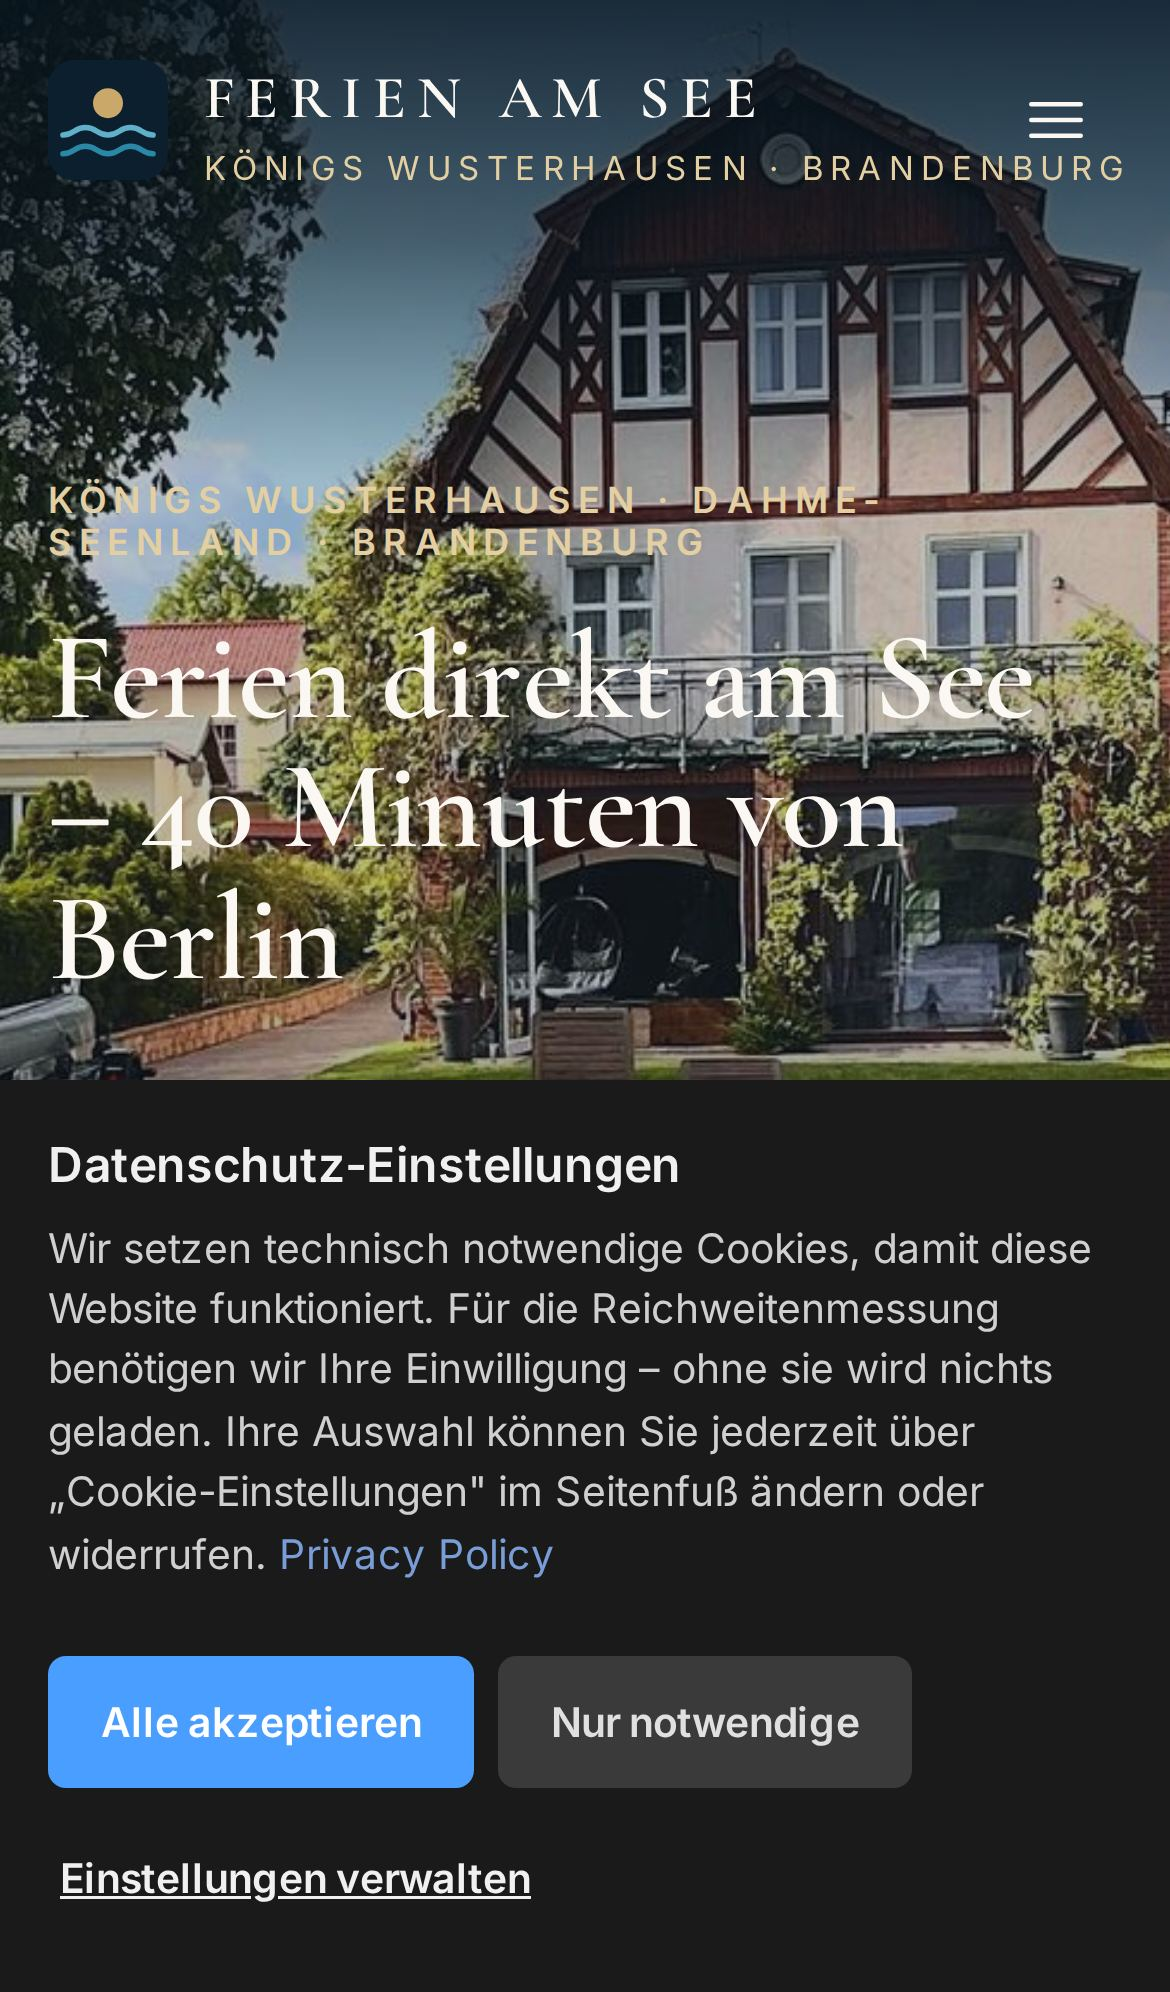
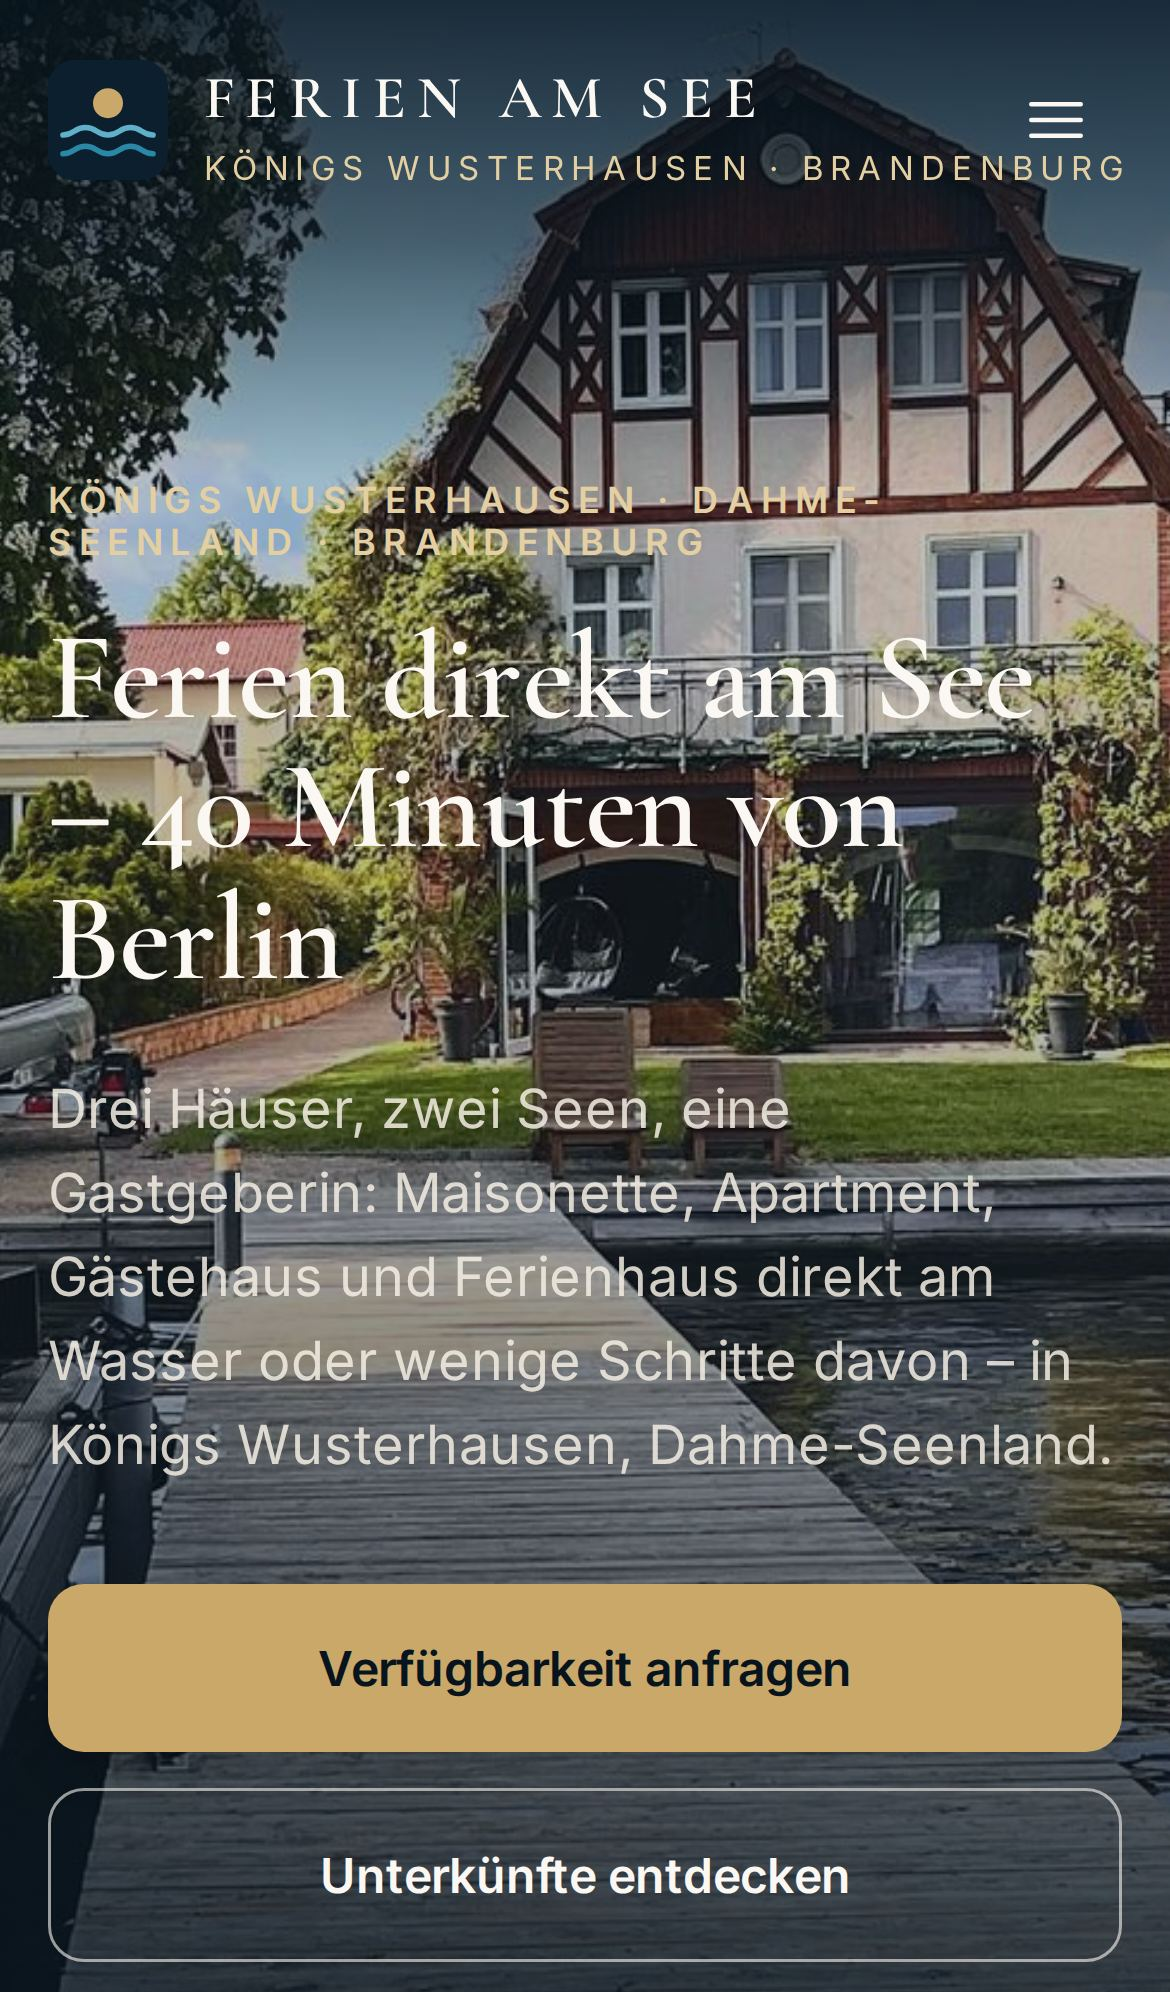
Add platform config archive and final QA screenshots
Site variables, AI instructions, redirects and platform status
exported from the Timbaly site; refreshed mobile screenshots.

Claude-Session: https://claude.ai/code/session_01HD9u7EmbL2y9s3R72ujVzW

diff --git a/ferienwohnung-see-brandenburg/notes/platform-status.md b/ferienwohnung-see-brandenburg/notes/platform-status.md
@@ -1,0 +1,109 @@
+# Platform status
+
+Site id 51, ferienwohnung-see-brandenburg.de. Snapshot of the read-only platform status tools, taken 2026-09-24.
+
+## get_search_visibility_status
+
+```json
+{
+  "domain": "ferienwohnung-see-brandenburg.de",
+  "servedWithNoindex": false,
+  "declaredByUs": {
+    "sitemap": "https://ferienwohnung-see-brandenburg.de/sitemap.xml",
+    "robots": "https://ferienwohnung-see-brandenburg.de/robots.txt",
+    "llmsTxt": "https://ferienwohnung-see-brandenburg.de/llms.txt"
+  },
+  "instantSubmission": {
+    "enabled": true
+  },
+  "google": {
+    "available": true,
+    "connected": false,
+    "propertyAdopted": false
+  },
+  "bing": {
+    "connected": false
+  },
+  "indexing": {
+    "measured": false,
+    "note": "Search Console non è collegata (o non è verificata), quindi NON si sa quali pagine il motore abbia indicizzato. Non dedurne che non lo siano."
+  },
+  "searches": {
+    "measured": false,
+    "note": "Search Console non collegata: non si sa per quali parole il sito compare. Google NON mette la parola cercata nel referrer, quindi non c'è nessun altro modo."
+  },
+  "speed": {
+    "measured": false,
+    "note": "La misurazione della velocità non è attiva su questa installazione (manca la chiave di PageSpeed Insights). Non è una scelta del proprietario del sito."
+  },
+  "nextSteps": [
+    "Search Console non è collegata: è il collegamento che sblocca indicizzazione e parole cercate. Lo fa il PROPRIETARIO con il proprio account Google, da /admin/settings/search-visibility — un agente non può farlo al posto suo."
+  ]
+}
+```
+
+## get_legal_status
+
+```json
+{
+  "completenessPercent": 100,
+  "isComplete": true,
+  "missing": [],
+  "filled": {
+    "ragione_sociale": "Ausblicke Management GmbH",
+    "tipo_soggetto": "company",
+    "indirizzo": "Kuno-Fischer-Str. 14, 14057 Berlin, Deutschland",
+    "email": "kontakt@seehaus-berlin.de",
+    "partita_iva": "DE262426225",
+    "telefono": "+49 163 5088945"
+  },
+  "pagesExist": false,
+  "privacyUrl": "/privacy-policy",
+  "cookieUrl": "/cookie-policy",
+  "note": "Le due pagine legali non esistono su questo sito: si creano confermando la struttura in /admin/build, che le collega anche nel piè di pagina."
+}
+```
+
+## get_site_settings
+
+```json
+{
+  "identity": {
+    "name": "Ferienhaus am See Brandenburg",
+    "domain": "ferienwohnung-see-brandenburg.de",
+    "plan": "pro",
+    "contactEmail": "kontakt@seehaus-berlin.de",
+    "defaultLanguage": "de",
+    "availableLanguages": "[\"de\"]",
+    "logoUrl": "/uploads/site-51/brand/logo-512.png",
+    "faviconUrl": "/uploads/site-51/brand/favicon.svg",
+    "hasCustomCss": false
+  },
+  "cookieConsent": {
+    "enableCookieConsent": true,
+    "cookieEnableAnalytics": true,
+    "cookieEnableMarketing": false,
+    "cookieBannerTitle": "Datenschutz-Einstellungen",
+    "cookieBannerDescription": "Wir setzen technisch notwendige Cookies, damit diese Website funktioniert. Für die Reichweitenmessung benötigen wir Ihre Einwilligung – ohne sie wird nichts geladen. Ihre Auswahl können Sie jederzeit über „Cookie-Einstellungen\" im Seitenfuß ändern oder widerrufen.",
+    "cookiePrivacyPolicyUrl": "/datenschutz",
+    "cookieBannerPosition": "bottom-bar"
+  },
+  "aiDisclosure": {
+    "enableAiDisclosure": false,
+    "aiDisclosureText": "(non configurato)",
+    "aiDisclosurePosition": "(non configurato)",
+    "note": "Trasparenza EU AI Act art. 50. Le pagine di questo sito sono marcate come generate dall'AI."
+  },
+  "searchEngines": {
+    "indexNowEnabled": true,
+    "hasRobotsTxt": true,
+    "hasLlmsTxt": true
+  },
+  "aiConfiguration": {
+    "preferredAiProvider": "openrouter",
+    "defaultAiModel": "(non configurato)",
+    "hasOwnOpenRouterKey": false,
+    "hasOwnGeminiKey": false
+  }
+}
+```

diff --git a/ferienwohnung-see-brandenburg/config/variables.md b/ferienwohnung-see-brandenburg/config/variables.md
@@ -1,0 +1,37 @@
+# Site variables (`get_variables`)
+
+Site id 51, ferienwohnung-see-brandenburg.de. Reference a variable in page HTML with `{{key}}`.
+
+| Name | Value | Description |
+|---|---|---|
+| `booking_u1` | https://www.booking.com/hotel/de/traum-maisonette-direkt-am-see.de.html | Booking.com – Maisonette am Krüpelsee |
+| `booking_u2` | https://www.booking.com/hotel/de/leben-direkt-am-see.de.html | Booking.com – Apartment am Krüpelsee |
+| `booking_u3` | https://www.booking.com/hotel/de/gastehaus-am-grossen-zug-see.de.html | Booking.com – Gästehaus am Großen Zug |
+| `booking_u4` | https://www.booking.com/hotel/de/ferienhaus-am-see-in-der-natur.de.html | Booking.com – Ferienhaus am See in der Natur (Kablow) |
+| `brand_short` | Ferien am See | Kurze Wortmarke (Logo, Nav) |
+| `business_name` | Ferienhaus am See Brandenburg | Anzeigename der Website / Marke |
+| `checkin` | 15:00–18:00 Uhr (Ankunftszeit bitte vorab mitteilen) | Check-in-Zeit (Gästehaus und Ferienhaus Kablow laut Booking bestätigt; Zernsdorf laut Buchungsbestätigung) |
+| `checkout` | bis 11:00 Uhr | Check-out-Zeit (Gästehaus und Ferienhaus Kablow laut Booking bestätigt; Zernsdorf laut Buchungsbestätigung) |
+| `company_address` | Kuno-Fischer-Str. 14, 14057 Berlin | Sitz der Betreibergesellschaft |
+| `company_name` | Ausblicke Management GmbH | Betreibergesellschaft (Impressum, Footer, JSON-LD) |
+| `contact_name` | Marita Briese | Gastgeberin und Ansprechpartnerin |
+| `email` | kontakt@seehaus-berlin.de | E-Mail für Anfragen |
+| `hours` | Mo–Fr 9:00–18:00 Uhr, Sa nach Vereinbarung | Erreichbarkeit |
+| `hrb` | HRB 115701 B | Handelsregisternummer (Amtsgericht Charlottenburg) |
+| `indirizzo` | Kuno-Fischer-Str. 14, 14057 Berlin, Deutschland | Sede legale o residenza, nell'informativa privacy |
+| `min_stay` | auf Anfrage | Mindestaufenthalt (vom Eigentümer zu bestätigen) |
+| `partita_iva` | DE262426225 | Identificativo del titolare nell'informativa privacy |
+| `phone` | +49 163 5088945 | Telefon in Anzeigeform |
+| `phone_link` | +491635088945 | Telefon für tel:-Links (ohne Leerzeichen) |
+| `place_u1` | Zernsdorf, Königs Wusterhausen | Ort der Villa am Krüpelsee (Maisonette und Apartment) |
+| `place_u3` | Niederlehme, Königs Wusterhausen | Ort des Gästehauses am Großen Zug |
+| `place_u4` | Kablow, Königs Wusterhausen | Ort des Ferienhauses am See in der Natur |
+| `portal_url` | https://seehaus-berlin.de | Dachmarke Seehaus Berlin |
+| `ragione_sociale` | Ausblicke Management GmbH | Titolare del trattamento nell'informativa privacy |
+| `telefono` | +49 163 5088945 | Recapito dell'attività |
+| `tipo_soggetto` | company | Società o persona fisica: decide come l'informativa nomina la sede |
+| `ustid` | DE262426225 | Umsatzsteuer-Identifikationsnummer |
+| `whatsapp` | +49 172 8588588 | WhatsApp-Nummer in Anzeigeform |
+| `whatsapp_link` | https://wa.me/491728588588 | WhatsApp-Direktlink |
+
+Total: 29 variables.

diff --git a/ferienwohnung-see-brandenburg/config/ai-instructions.md b/ferienwohnung-see-brandenburg/config/ai-instructions.md
@@ -1,0 +1,26 @@
+# Redaktionsregeln ferienwohnung-see-brandenburg.de
+
+## Tonalität
+- Deutsch, Sie-Form, ruhig, konkret, sinnlich. Kurze Sätze. Keine Ausrufezeichen im Fließtext. Keine Superlative ohne Beleg.
+- Synonyme: Ferienhaus, Ferienwohnung, Unterkunft, Domizil, Refugium, Seehaus. Keine Keyword-Wiederholungen.
+
+## Fakten
+- Nur Angaben aus der Wissensbasis. Unbekanntes = „auf Anfrage". Entfernungen/Zeiten immer „ca.". Preise immer „inkl. gesetzlicher MwSt." und mit „Stand: MM/JJJJ".
+- Verboten im sichtbaren Text: Kaufpreis, Exposé, Courtage, Makler, Verkauf, Kapitalanlage, SEO, Google, Keyword, Landing Page, Conversion.
+- Pool, Saunahaus, Stege, Boote: nur erwähnen, wenn die Gästenutzung vom Eigentümer bestätigt ist.
+- Ferienhaus am See in der Natur (Fontanestraße 35, Kablow): keine Sauna, kein Wintergarten, kein eigener Steg, kein direkter Seezugang, kein Grillplatz – nie behaupten. Max. 4 Gäste, 2 Schlafzimmer, keine Haustiere. Gästehaus am Großen Zug: max. 2 Gäste, Haustiere auf Anfrage. Check-in 15–18 Uhr, Check-out bis 11 Uhr (Gästehaus, Kablow bestätigt; Maisonette und Apartment in Zernsdorf: „laut Buchungsbestätigung").
+- Diese Website spricht ausschließlich Feriengäste an. Der Verkauf der Häuser (seehaus-berlin.de) wird hier nie erwähnt.
+
+## Struktur jeder Inhaltsseite
+Hero → Antwortkapsel (2–3 Sätze: was, wo, für wen, wie buchen) → Faktenleiste → Story-Abschnitte → Galerie → Lage & Anreise → FAQ (4–6, je 40–80 Wörter) → Anfrageformular → Rechtshinweis. 800–1400 sichtbare Wörter.
+
+## SEO/GEO
+- Ein Hauptkeyword pro Seite (Title, H1, erste 100 Wörter, eine H2, Alt-Text, URL). Orte als natürliche Entitäten: Königs Wusterhausen, Zernsdorf, Kablow, Niederlehme, Krüpelsee, Großer Zug, Dahme-Seenland, Brandenburg, Berlin, BER.
+- Zahlen in Text, Tabelle, FAQ, JSON-LD und llms.txt identisch halten.
+- CTAs: „Verfügbarkeit anfragen" (Klasse convert) und „Auf Booking.com ansehen".
+
+## Formulare
+- Formular id="contact-form", Felder mit name, Datenschutz-Checkbox vor dem Absenden-Button, genau ein Formular pro Seite.
+
+## Bilder
+- Nur Bilder aus der Mediathek; jedes Bild mit deutschem Alt-Text; nie Innenräume einer anderen Einheit zeigen.

diff --git a/ferienwohnung-see-brandenburg/config/redirects.md b/ferienwohnung-see-brandenburg/config/redirects.md
@@ -1,0 +1,8 @@
+# URL redirects (`list_url_redirects`)
+
+Total: 2 redirects.
+
+| ID | Source URL | Destination URL | Active | Notes |
+|---|---|---|---|---|
+| 74 | `/cookie-policy` | `/datenschutz` | yes | Plattform-Standardpfad der Cookie-Richtlinie auf die Datenschutzerklärung (Abschnitt Cookies) umleiten |
+| 73 | `/privacy-policy` | `/datenschutz` | yes | Plattform-Standardpfad der Datenschutzerklärung auf die deutsche Seite umleiten |
